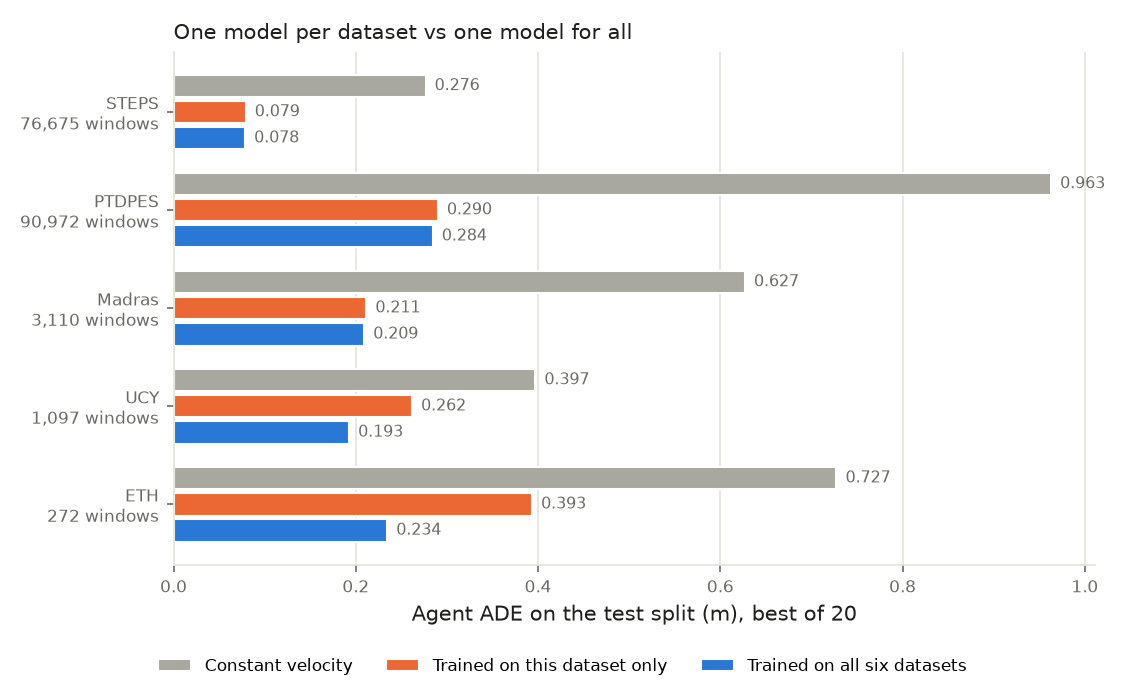
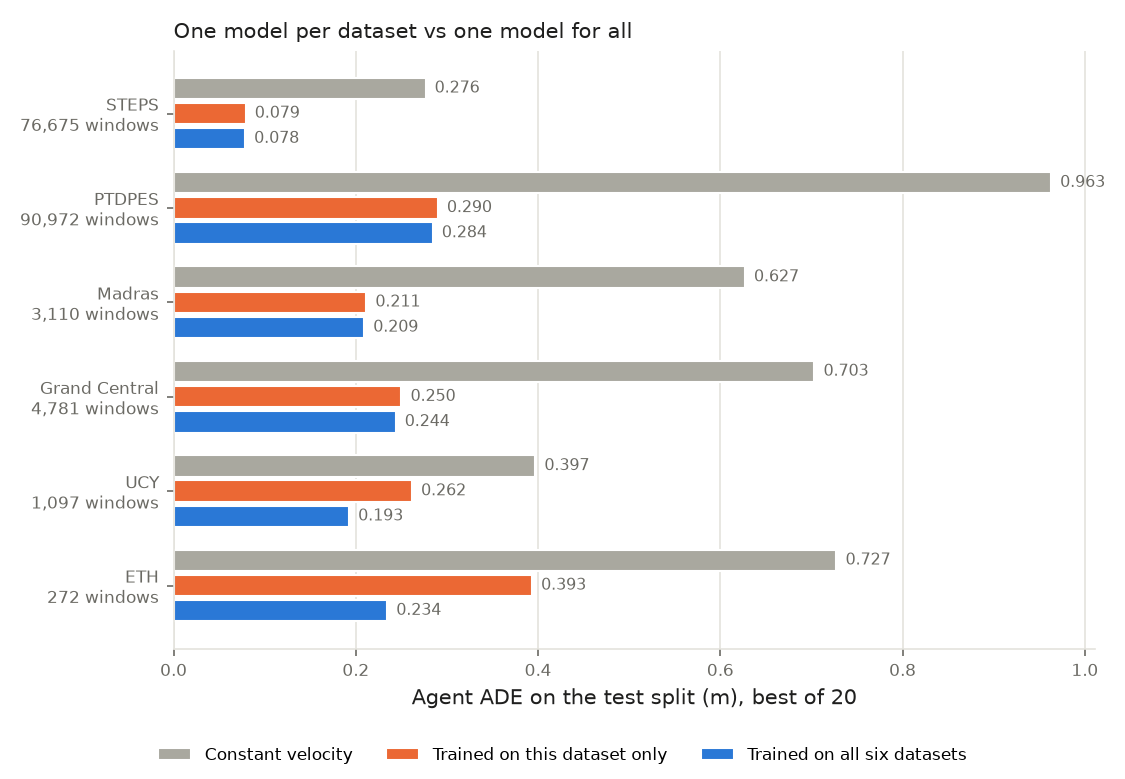
Single-dataset vs all-dataset comparison complete (decision 80)

diff --git a/docs/decisions.md b/docs/decisions.md
@@ -960,3 +960,25 @@ why, and how to undo it.
       a few seconds. That is a new controller, not a cost term, and it is left as a recorded
       next step rather than started.
     - **Reference policy:** `checkpoints/seanjax/cmaes_crowd_v4/best_policy.yaml`.
+
+80. **One model per dataset vs one model for all** (`docs/results/stars_ma_single_vs_all.png`).
+    Same recipe (trial 53) for every model; test split, best-of-20:
+
+    | Dataset | Training windows | Own model ADE / FDE | All-dataset model ADE / FDE | Exec-1 ADE, own / all | ADE change |
+    | --- | --- | --- | --- | --- | --- |
+    | STEPS | 76,675 | 0.079 / 0.125 | 0.078 / 0.123 | 0.083 / 0.081 | -1% |
+    | PTDPES | 90,972 | 0.290 / 0.421 | 0.284 / 0.413 | 0.335 / 0.325 | -2% |
+    | Grand Central | 4,781 | 0.250 / 0.412 | 0.244 / 0.403 | 0.297 / 0.261 | -3% |
+    | Madras | 3,110 | 0.211 / 0.318 | 0.209 / 0.315 | 0.245 / 0.245 | -1% |
+    | UCY | 1,097 | 0.262 / 0.521 | 0.193 / 0.383 | 0.310 / 0.239 | -26% |
+    | ETH | 272 | 0.393 / 0.706 | 0.234 / 0.373 | 0.468 / 0.280 | -40% |
+
+    - **Pooling never hurts.** The all-dataset model is better than or level with each dataset's
+      own model on every dataset. The gain grows as the dataset shrinks: 1-3% for the large ones,
+      26% for UCY and 40% for ETH (272 windows, validated on UCY).
+    - **Closed loop gains more than teacher forcing on Grand Central:** exec-1 ADE 0.261 against
+      0.297 (-12%). Training on other datasets makes rollouts more stable there.
+    - **Recommendation.** Use `cvae_hpo53_scratch_all` for every dataset except STEPS, where the
+      STEPS fine-tuned `cvae_kl01_finetune` stays the simulator model (its 20 s rollouts are
+      validated for realism, 48). Per-dataset models are not worth keeping. This closes the
+      "train on individual datasets and on all at once" task.

diff --git a/docs/results/README.md b/docs/results/README.md
@@ -64,6 +64,11 @@ settings, agent ADE / FDE, best-of-20, against constant velocity:
 ![Per-dataset test error](stars_ma_all_test.png)
 
 - SSL pretraining plus fine-tuning is 0.002–0.010 m worse on every dataset.
+- **One model per dataset vs one for all** [80]: the all-dataset model is better than or level
+  with each dataset's own model everywhere: -1 to -3% ADE on STEPS, PTDPES, Madras and Grand
+  Central, -26% on UCY and -40% on ETH, the two smallest.
+
+![One model per dataset vs one for all](stars_ma_single_vs_all.png)
 - Feeding back its own predictions every step costs little on STEPS but 14–20% elsewhere.
 
 ## Navigation (SEAN-JAX lightweight backend, 80 scripted test scenarios)
